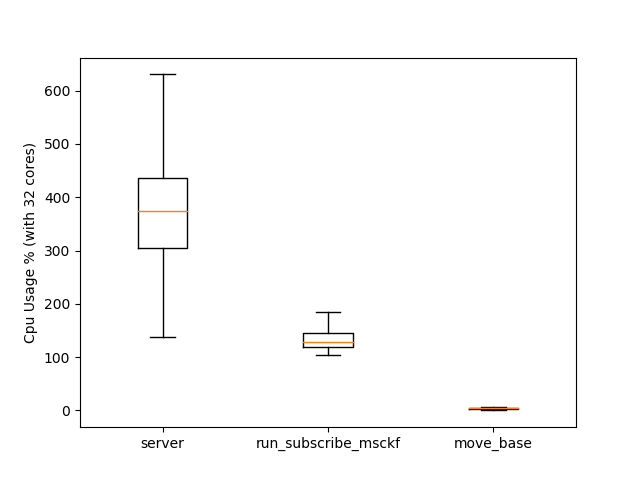
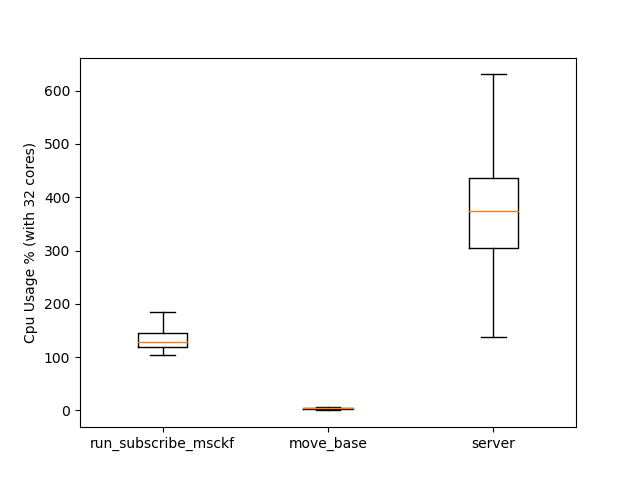
add baseprocess selection flexibility

diff --git a/main.py b/main.py
@@ -152,15 +152,17 @@ class ProcessMonitor:
 
         ## plot everything in one-shot
         # calc stamp start with server time
-        server_start_time = data['server']['stamp'][0]
-
+        first_start_time = data[csv_names[0]]['stamp'][0]
+        first_end_time = data[csv_names[0]]['stamp'][-1]
         # plot cpu usages
         print('draw every_process cpu usage...'.format(csv_name))
         plt.clf()
         for csv_name in csv_names:
-            stamp_begin_with_server_0 = [stamp - server_start_time for stamp in data[csv_name]['stamp']]
+            stamp_begin_with_first_0 = [stamp - first_start_time for stamp in data[csv_name]['stamp']
+                                        if first_start_time <= stamp <= first_end_time]
             cpu_usages = [cpu_percent for cpu_percent in data[csv_name]['cpu_percent']]
-            plt.plot(stamp_begin_with_server_0, cpu_usages, label=csv_name)
+            cpu_usages = cpu_usages[len(cpu_usages) - len(stamp_begin_with_first_0):] # match the length
+            plt.plot(stamp_begin_with_first_0, cpu_usages, label=csv_name)
         plt.xlabel('seconds')
         plt.ylabel(cpu_usage_str)
         plt.legend(loc='upper right')
@@ -170,9 +172,11 @@ class ProcessMonitor:
         print('draw every_process memory usage in GB...'.format(csv_name))
         plt.clf()
         for csv_name in csv_names:
-            stamp_begin_with_server_0 = [stamp - server_start_time for stamp in data[csv_name]['stamp']]
+            stamp_begin_with_first_0 = [stamp - first_start_time for stamp in data[csv_name]['stamp']
+                                        if first_start_time <= stamp <= first_end_time]
             memory_gbs = [memory_gb for memory_gb in data[csv_name]['memory_GB']]
-            plt.plot(stamp_begin_with_server_0, memory_gbs, label=csv_name)
+            memory_gbs = memory_gbs[len(memory_gbs) - len(stamp_begin_with_first_0):]
+            plt.plot(stamp_begin_with_first_0, memory_gbs, label=csv_name)
         plt.xlabel('seconds')
         plt.ylabel(memory_usage_gb_str)
         plt.legend(loc='upper right')
@@ -182,9 +186,11 @@ class ProcessMonitor:
         print('draw every_process memory usage in percent...'.format(csv_name))
         plt.clf()
         for csv_name in csv_names:
-            stamp_begin_with_server_0 = [stamp - server_start_time for stamp in data[csv_name]['stamp']]
+            stamp_begin_with_first_0 = [stamp - first_start_time for stamp in data[csv_name]['stamp']
+                                        if first_start_time <= stamp <= first_end_time]
             memory_percents = [memory_percent for memory_percent in data[csv_name]['memory_percent']]
-            plt.plot(stamp_begin_with_server_0, memory_percents, label=csv_name)
+            memory_percents = memory_percents[len(memory_percents) - len(stamp_begin_with_first_0):]
+            plt.plot(stamp_begin_with_first_0, memory_percents, label=csv_name)
         plt.xlabel('seconds')
         plt.ylabel(memory_usage_percent_str)
         plt.legend(loc='upper right')

diff --git a/proc_names.py b/proc_names.py
@@ -1,5 +1,5 @@
 exe_names = [ #you can write node_name when you use ROS
-    'server',
     'run_subscribe_msckf',
     'move_base',
+    'server',
 ]
